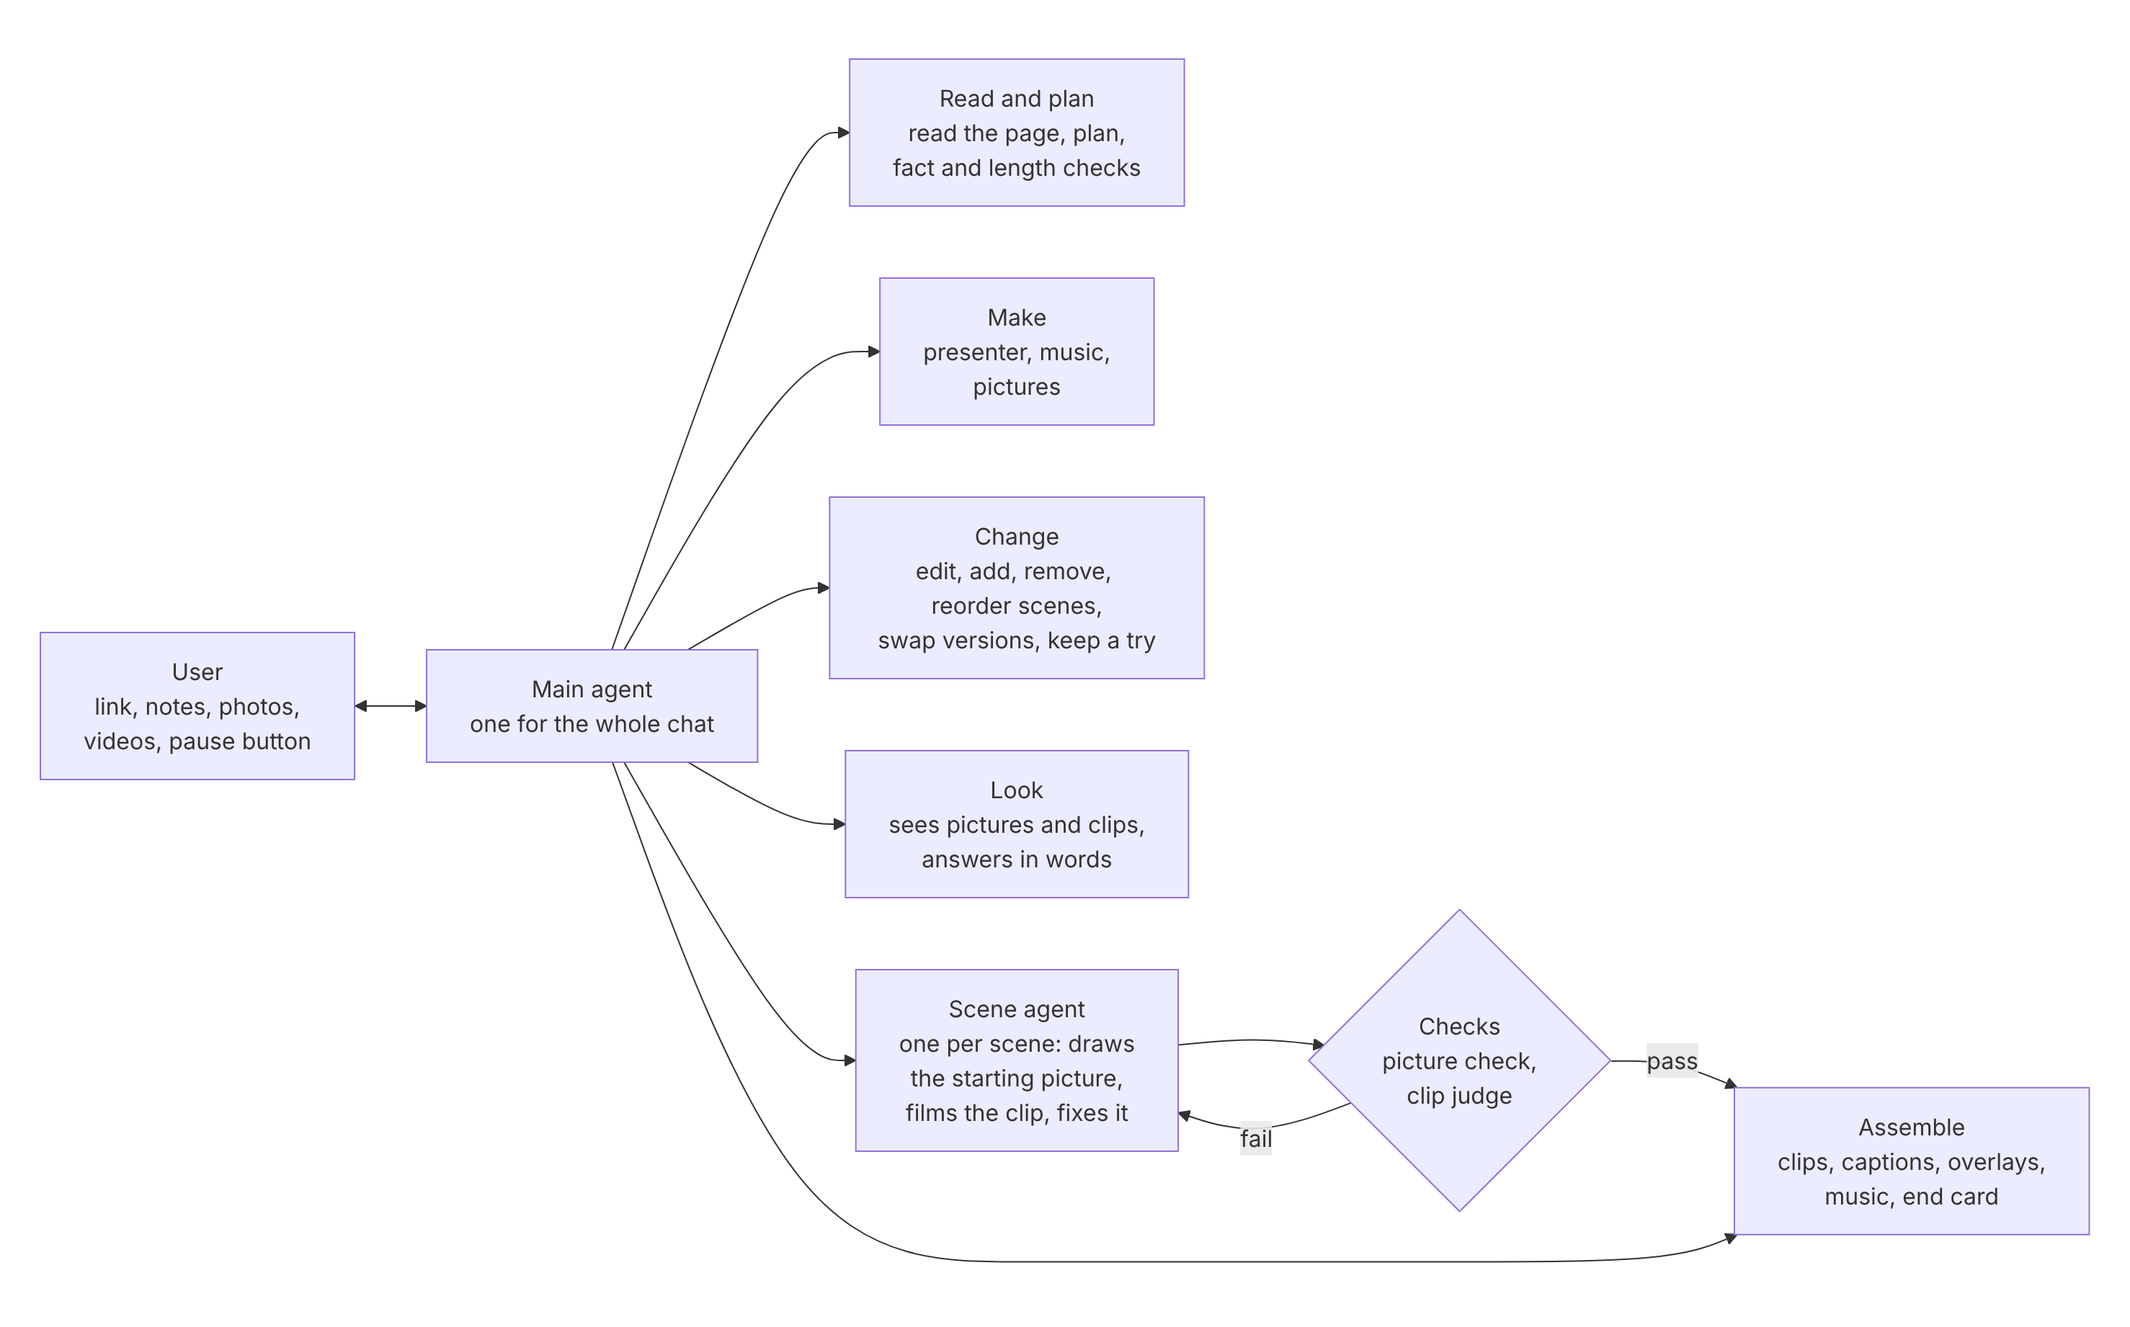
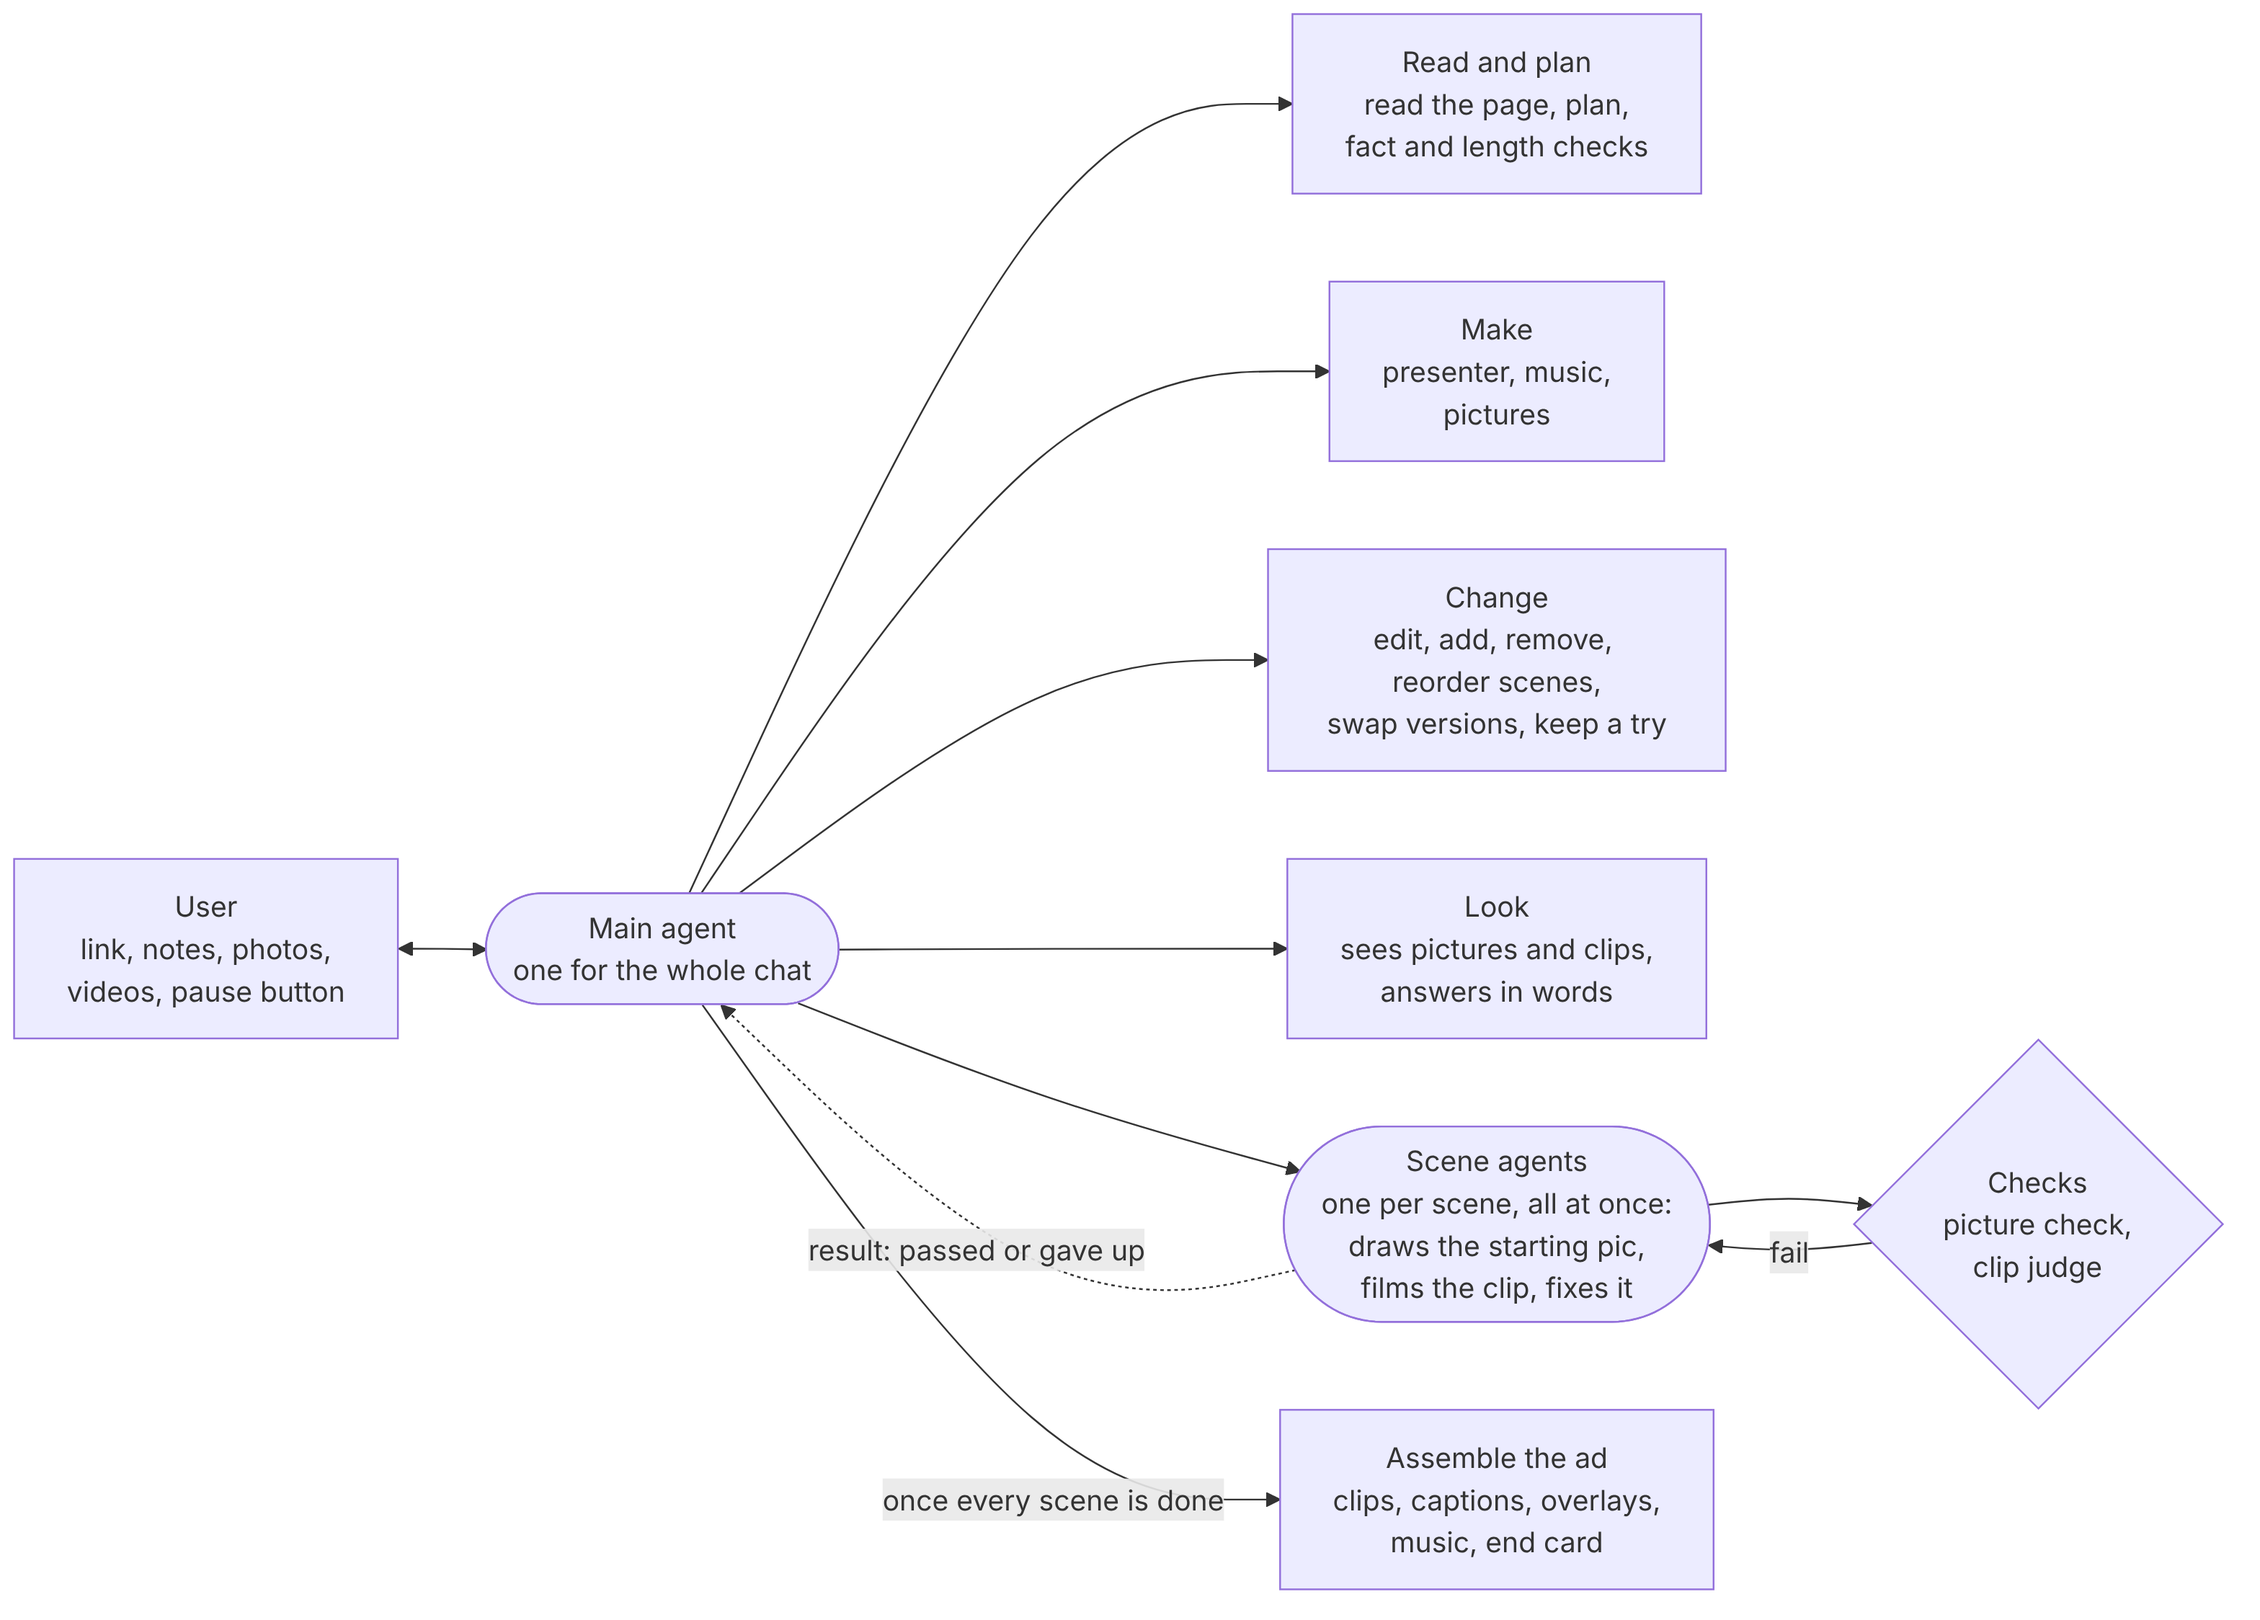
Show the main agent and scene agents clearly in the README (#735)
* Show the main agent and scene agents clearly in the README

The old diagram drew the main agent's tools and the scene agent as the
same kind of box, so it read like five sub-agents. The redraw splits AI
agents, tools and code checks by shape, shows one scene agent per scene
running at once, and adds the report back to the main agent. A short
overview above it says the same in words; the two "Words I use" lines it
replaces are gone.

Claude-Session: https://claude.ai/code/session_01CWcSCVEng1m5M9eYvcJ8Bn

* Keep the old diagram's layout, mark the two agents

The first redraw had too many lines. This goes back to the old layout and
changes only what made it confusing: the main agent and the scene agents
are rounded boxes, the scene agent box says there is one per scene, all
at once, and a dotted arrow shows each one reporting back.

Claude-Session: https://claude.ai/code/session_01CWcSCVEng1m5M9eYvcJ8Bn

* Show assembly as the main agent's step, after every scene is done

A "pass" arrow from the checks straight to Assemble read as if each scene
were assembled on its own. The main agent assembles the ad once every
scene is done, so the diagram now shows only that arrow.

Claude-Session: https://claude.ai/code/session_01CWcSCVEng1m5M9eYvcJ8Bn

* Label the scene agents' arrow with what they send back

"Reports back" sounded like the agent writes a summary. Code sends the
main agent one line when a scene agent ends: passed or gave up, with its
reason and cost.
[…]

diff --git a/README.md b/README.md
@@ -12,20 +12,20 @@ A chat agent that turns a product page into a short video ad. You just send the 
 
 - **Video model:** the AI that films each clip. It's Boreal-H3, Creatify's model (H3 for short).
 - **Product shot:** a clip of the product being used, with the presenter's voice over it.
-- **Main agent:** the one agent the user chats with.
-- **Scene agent:** one agent per scene. It draws the starting pic, films the clip and fixes it.
 - **Starting pic and end pic:** pictures drawn before filming. The clip starts on the starting pic and ends exactly on the end pic.
 - **Clip judge:** an AI that watches each clip and passes or fails it.
 - **Eval judge:** an AI that grades my test ads after I change the app, so I'd only watch what it flags.
 
 ## How it works
 
+The main agent is the only one you chat with. It reads the page, plans the scenes, then starts one scene agent per scene at the same time, and each one films its clip and fixes it until the clip judge passes it. When every scene is done, the main agent puts the ad together, and your notes go through it to the right scene agent.
+
 <picture>
   <source media="(prefers-color-scheme: dark)" srcset="docs/readme/how-it-works-dark.png">
-  <img alt="The user talks to the main agent. The main agent reads the page and plans, makes the presenter, music and pictures, changes scenes, looks at pictures and clips, and starts one scene agent per scene. Each scene agent draws the starting picture, films the clip and fixes it. Its pictures and clips go through checks, a picture check and the clip judge: a fail goes back to the scene agent, a pass goes to assembly, which joins clips, captions, overlays, music and the end card." src="docs/readme/how-it-works-light.png">
+  <img alt="The user talks to the main agent, one for the whole chat. The main agent reads the page and plans, makes the presenter, music and pictures, changes scenes, and looks at pictures and clips. It also starts the scene agents, one per scene, all at once, and each sends back its result: passed or gave up. Each scene agent draws the starting pic, films the clip and fixes it. Its pictures and clips go through checks, a picture check and the clip judge: a fail goes back to the scene agent. Once every scene is done, the main agent assembles the ad: clips, captions, overlays, music and the end card. The two agents are drawn as rounded boxes; their tools are square." src="docs/readme/how-it-works-light.png">
 </picture>
 
-<!-- The diagram is a picture so its labels show whole on every screen. Source: docs/readme/how-it-works.mmd; render it with Mermaid in light and dark and replace both PNGs. -->
+<!-- The diagram is a picture so its labels show whole on every screen. Source: docs/readme/how-it-works.mmd; render it with mermaid-cli in light (-t default -b white) and dark (-t dark -b '#0d1117'), at -s 4 with the Inter font installed, and replace both PNGs. -->
 
 Why each part is like this:
 
